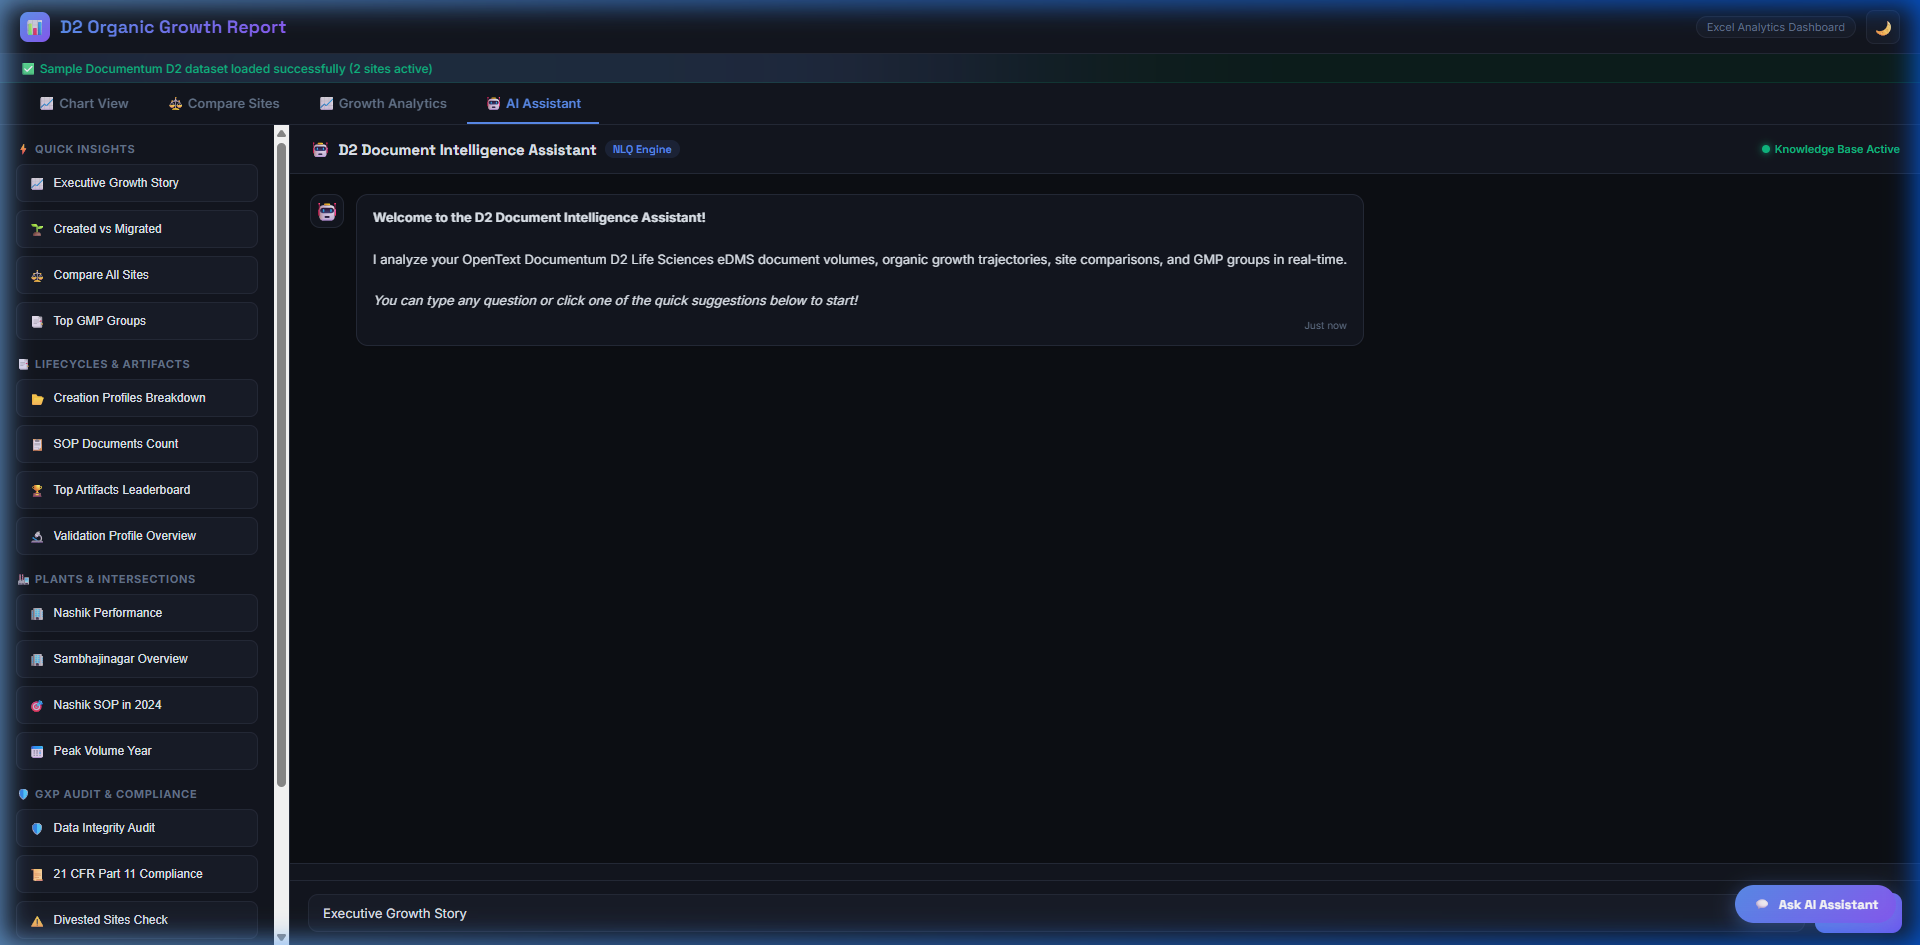
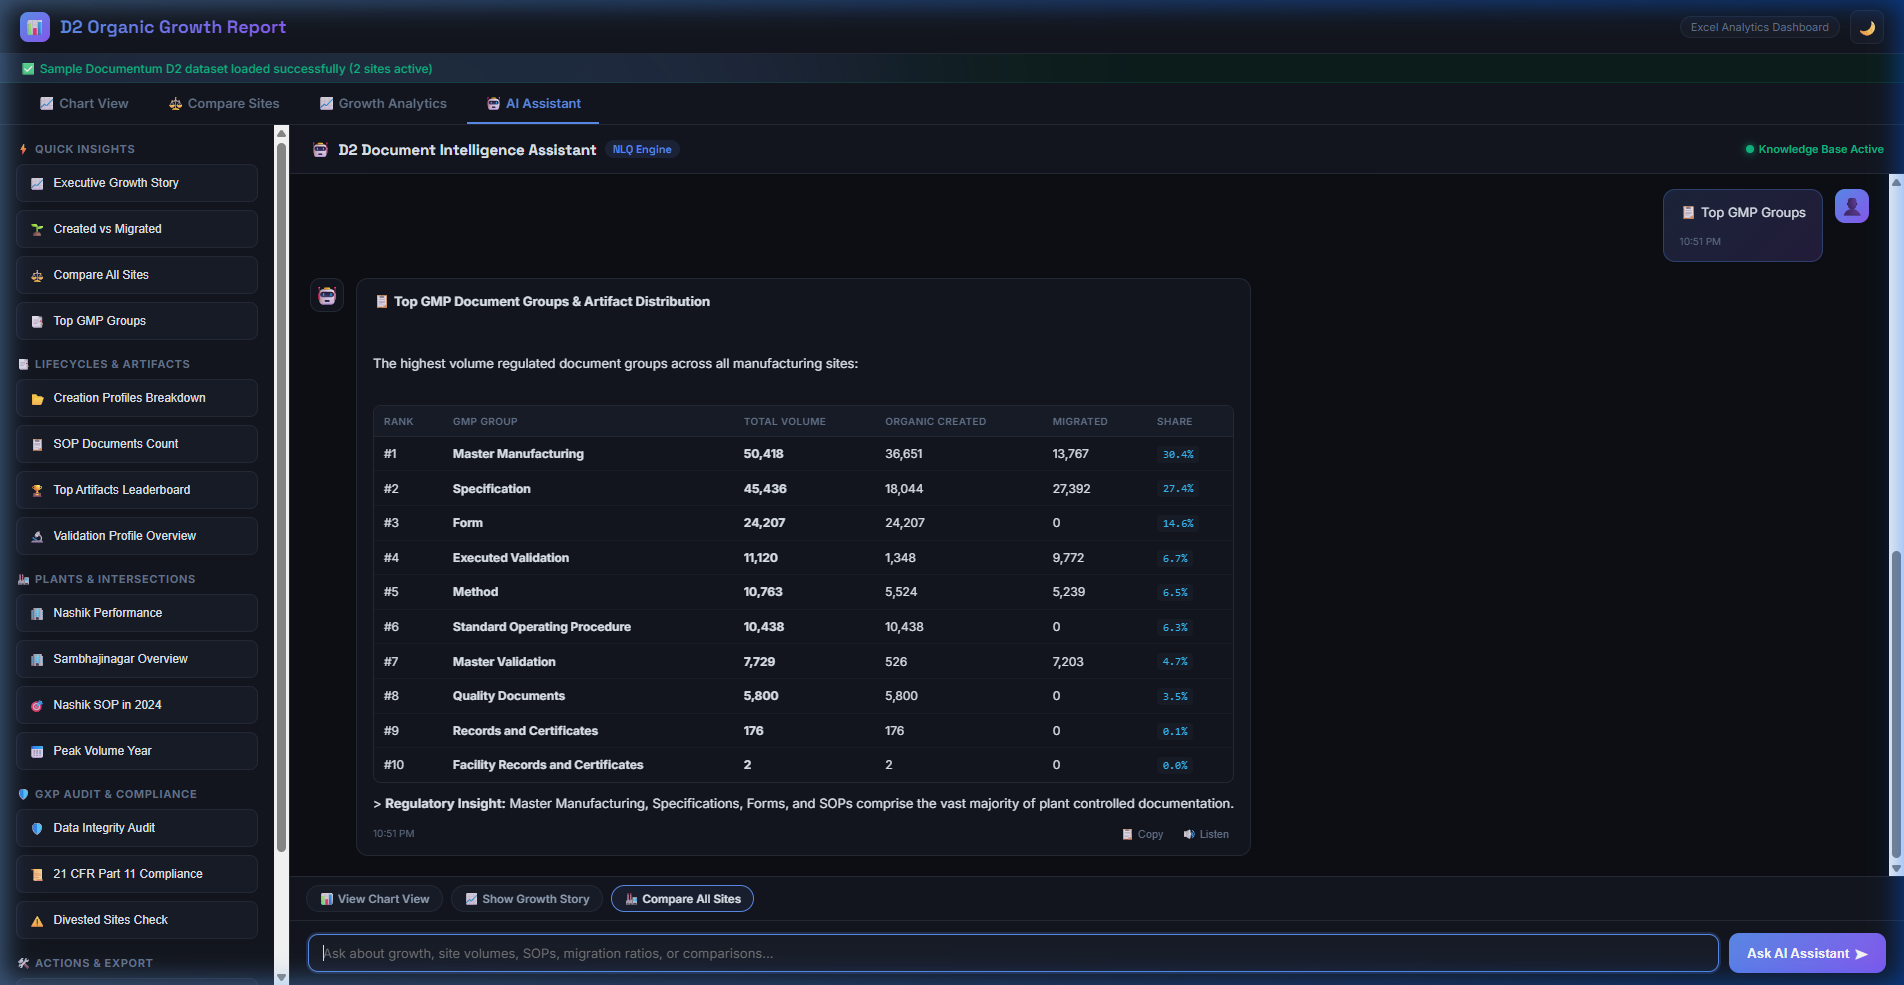
fix(chatbot): resolve chat.js syntax error, hide floating chat overlap, and add single-word query matching

diff --git a/src/main/resources/static/index.html b/src/main/resources/static/index.html
@@ -340,6 +340,8 @@
         /* Floating Chat Widget */
         .floating-chat-btn { position:fixed; bottom:22px; right:24px; z-index:900; background:linear-gradient(135deg,var(--accent),var(--accent2)); color:#fff; border:none; border-radius:50px; padding:10px 18px; font-family:'Space Grotesk',sans-serif; font-size:13px; font-weight:700; cursor:pointer; box-shadow:0 4px 20px rgba(91,141,238,0.45); display:flex; align-items:center; gap:8px; transition:all .2s; }
         .floating-chat-btn:hover { transform:scale(1.04) translateY(-2px); box-shadow:0 6px 24px rgba(91,141,238,0.6); }
+        #page-chat.active ~ #floatingChatBtn,
+        #page-chat.active ~ #floatingChatDrawer { display: none !important; }
         .floating-chat-drawer { position:fixed; bottom:80px; right:24px; width:420px; height:540px; max-width:calc(100vw - 32px); max-height:calc(100vh - 100px); background:var(--surface); border:1px solid var(--border); border-radius:16px; box-shadow:0 12px 36px rgba(0,0,0,0.4); z-index:901; display:none; flex-direction:column; overflow:hidden; backdrop-filter:blur(8px); animation:slideUp .2s ease-out; }
         .floating-chat-drawer.open { display:flex; }
         @keyframes slideUp { from { transform:translateY(20px); opacity:0; } to { transform:translateY(0); opacity:1; } }
@@ -960,7 +962,7 @@
             <div class="chat-input-area">
                 <input type="text" id="fullChatInput" class="chat-input" placeholder="Ask about growth, site volumes, SOPs, migration ratios, or comparisons…" onkeydown="if(event.key==='Enter')submitChat('full')">
                 <button class="chat-send-btn" onclick="submitChat('full')">
-                    <span>Send</span>
+                    <span>Ask AI Assistant</span>
                     <span>➤</span>
                 </button>
             </div>
@@ -983,6 +985,12 @@ function switchTab(tab) {
     const pageEl = document.getElementById("page-" + tab) || document.getElementById("page-growth");
     if (tabEl) tabEl.classList.add("active");
     if (pageEl) pageEl.classList.add("active");
+
+    const floatBtn = document.getElementById("floatingChatBtn");
+    if (floatBtn) {
+        floatBtn.style.display = (tab === "chat") ? "none" : "flex";
+    }
+
     if (tab === "chat") {
         const input = document.getElementById("fullChatInput");
         if (input) setTimeout(() => input.focus(), 100);

diff --git a/src/main/resources/static/js/chat.js b/src/main/resources/static/js/chat.js
@@ -201,6 +201,7 @@ function executeChatAction(type, payload) {
                     break;
                 }
             }
+        }
     } else if (type === "EXPORT_REPORT") {
         if (typeof downloadReport === "function") {
             downloadReport();

diff --git a/src/main/java/com/example/excelviz/service/ChatbotService.java b/src/main/java/com/example/excelviz/service/ChatbotService.java
@@ -149,8 +149,18 @@ public class ChatbotService {
         }
 
         // 7b. Created vs Migrated / Organic Adoption (checked before generic "vs" / "compare")
-        if (isMatch(lower, "created vs migrated", "created vs. migrated", "migrated vs created", "migrated vs. created", "organic vs migrated", "organic adoption", "legacy vs organic")
-                || (lower.contains("ratio") && (lower.contains("migrated") || lower.contains("created") || lower.contains("organic")))) {
+        boolean isCreatedVsMigratedQuery = isMatch(lower, "created", "migrated", "organic", "legacy", "adoption", "cutover")
+                || lower.contains("created vs migrated") || lower.contains("created vs. migrated")
+                || lower.contains("migrated vs created") || lower.contains("migrated vs. created")
+                || lower.contains("organic vs migrated") || lower.contains("legacy vs organic")
+                || (lower.contains("ratio") && (lower.contains("migrated") || lower.contains("created") || lower.contains("organic")));
+
+        boolean hasSpecificIntersection = (matchedSites.size() == 1 && !matchedGroups.isEmpty()) ||
+                                          (matchedSites.size() == 1 && !matchedYears.isEmpty()) ||
+                                          (!matchedGroups.isEmpty() && !matchedYears.isEmpty()) ||
+                                          (!matchedProfiles.isEmpty() && (!matchedGroups.isEmpty() || !matchedSites.isEmpty()));
+
+        if (isCreatedVsMigratedQuery && !hasSpecificIntersection) {
             return handleCreatedVsMigrated(matchedSites, matchedYears, allYears);
         }
 
@@ -179,10 +189,6 @@ public class ChatbotService {
 
         // 11. Multi-Dimensional Filter Intersection
         // (e.g. Site + Group, Site + Year, Group + Year, Site + Profile + Group, etc.)
-        boolean hasSpecificIntersection = (matchedSites.size() == 1 && !matchedGroups.isEmpty()) ||
-                                          (matchedSites.size() == 1 && !matchedYears.isEmpty()) ||
-                                          (!matchedGroups.isEmpty() && !matchedYears.isEmpty()) ||
-                                          (!matchedProfiles.isEmpty() && (!matchedGroups.isEmpty() || !matchedSites.isEmpty()));
         if (hasSpecificIntersection) {
             return handleMultiFilterIntersection(matchedSites, matchedProfiles, matchedGroups, matchedYears, docType, allYears);
         }
